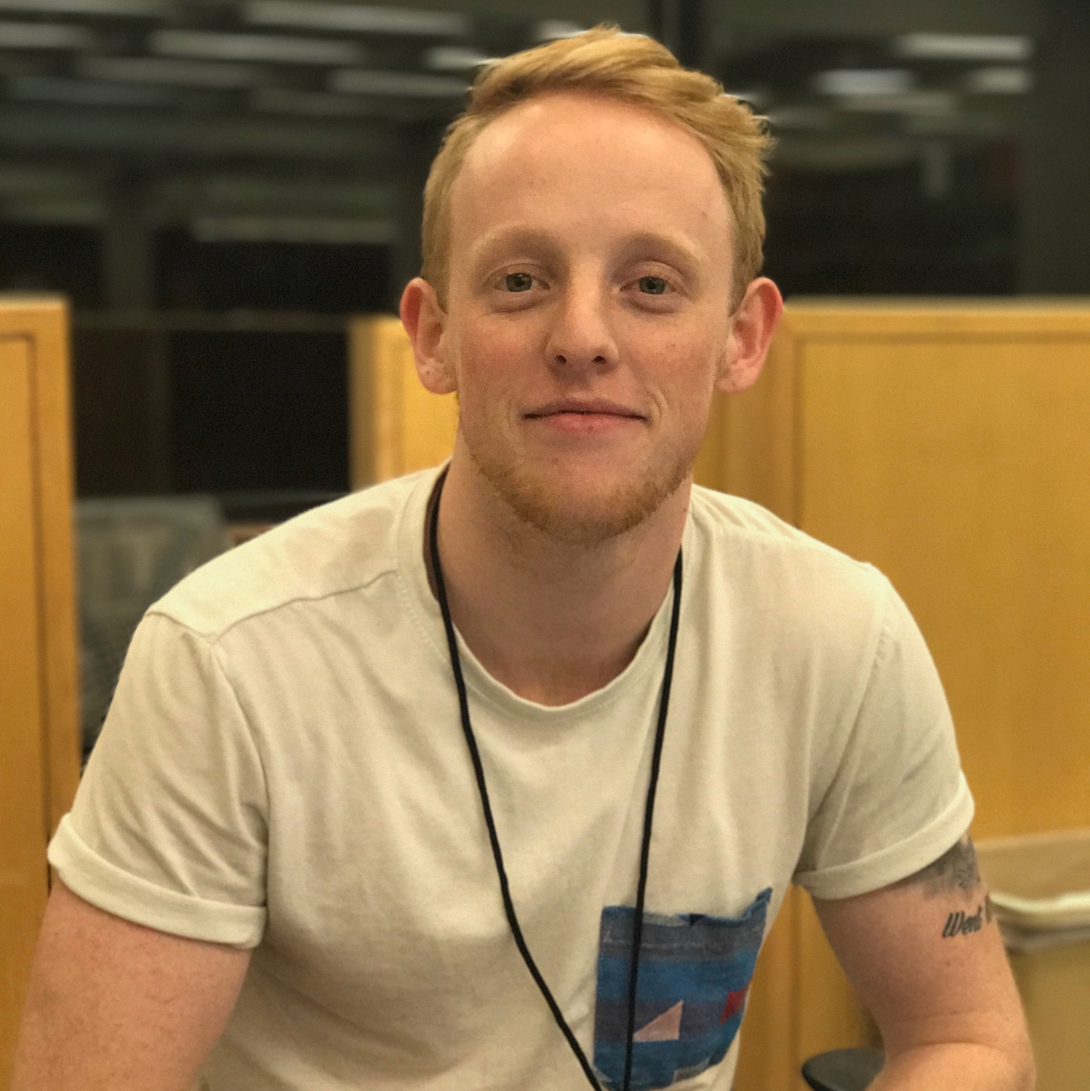
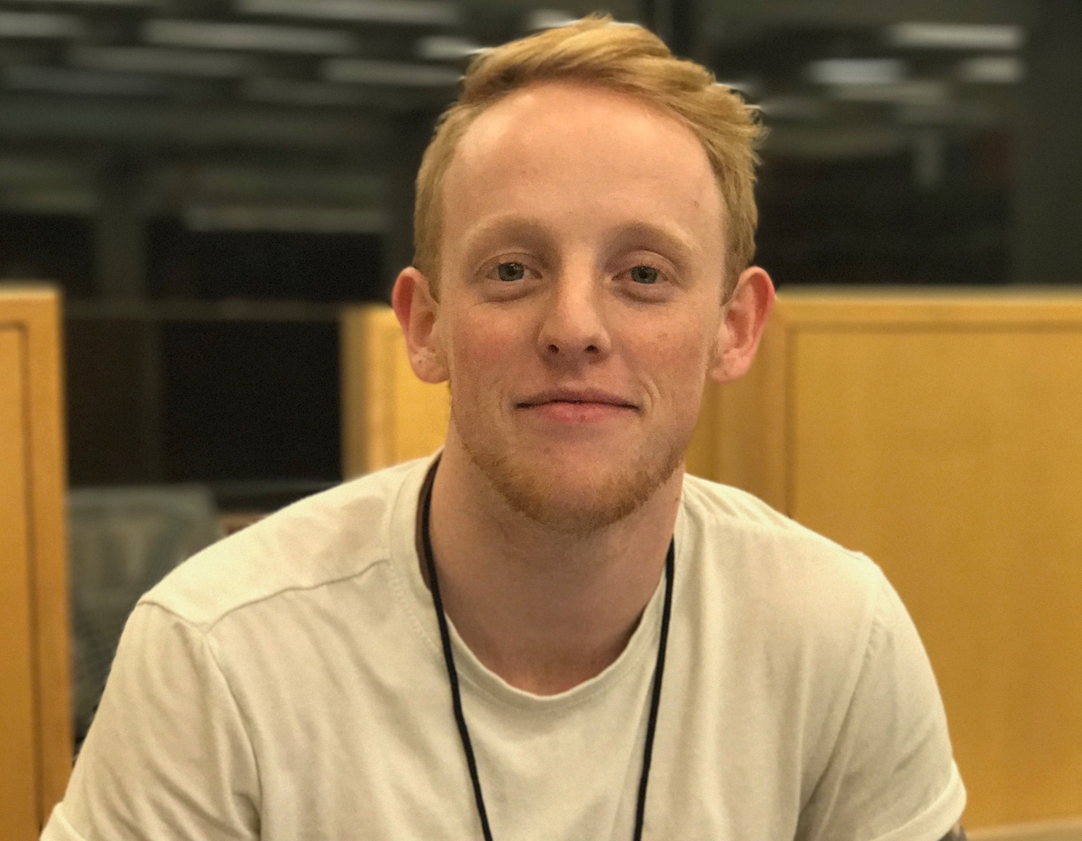
changed size and shape of profile image

diff --git a/index.html b/index.html
@@ -36,7 +36,7 @@
 					<header>
 						<h2>Summary</h2>
 					</header>
-					<img src="images/me.jpg" alt="Profile" style="width:304px;height:228px;">
+					<img class="img-circle img-portrait" src="images/me.jpg" >
 					
 					<p>I am currently a Junior at Stetson University with a major in Computer Science and a minor in Physics and Mathematics. Additionally, I have a strong interest in AI, Machine Learning, and Robotics</p>
 					<footer>

diff --git a/assets/css/main.css b/assets/css/main.css
@@ -883,7 +883,15 @@
 	.icon {
 		text-decoration: none;
 	}
+	.img-circle {
+    border-radius: 50%;
 
+}
+.img-portrait{
+	width: 200px;
+	height: 200px;
+
+}
 		.icon:before {
 			display: inline-block;
 			font-family: FontAwesome;
